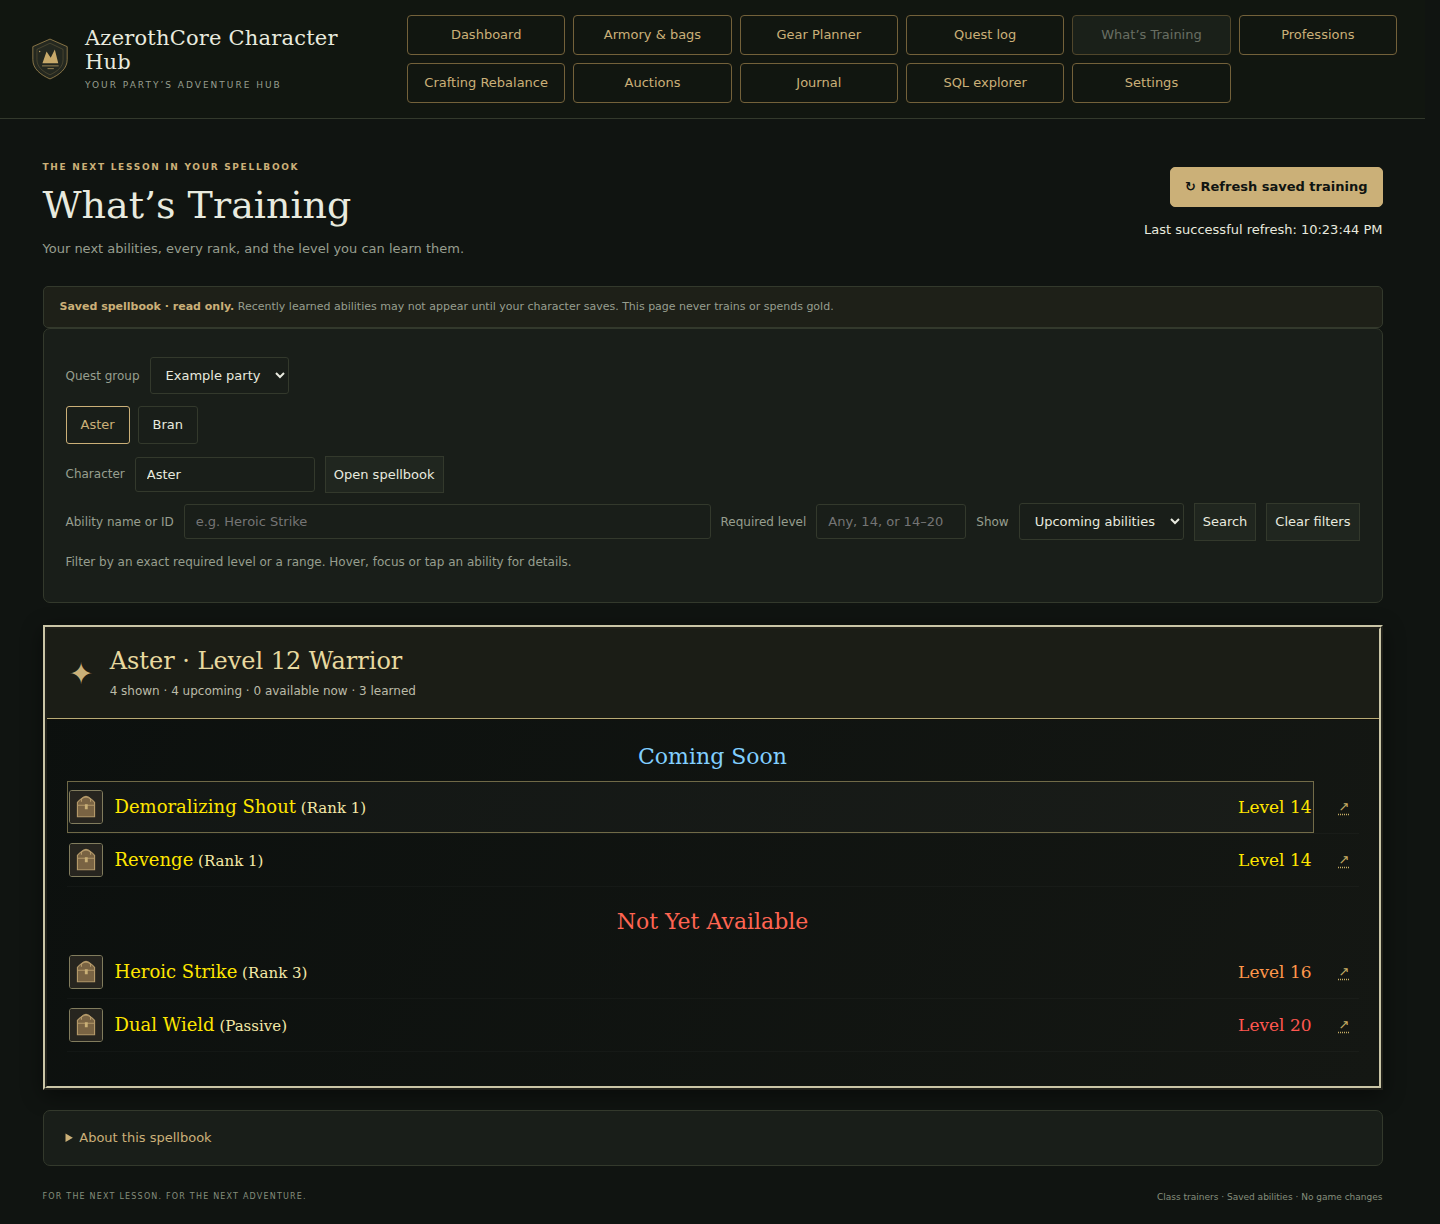
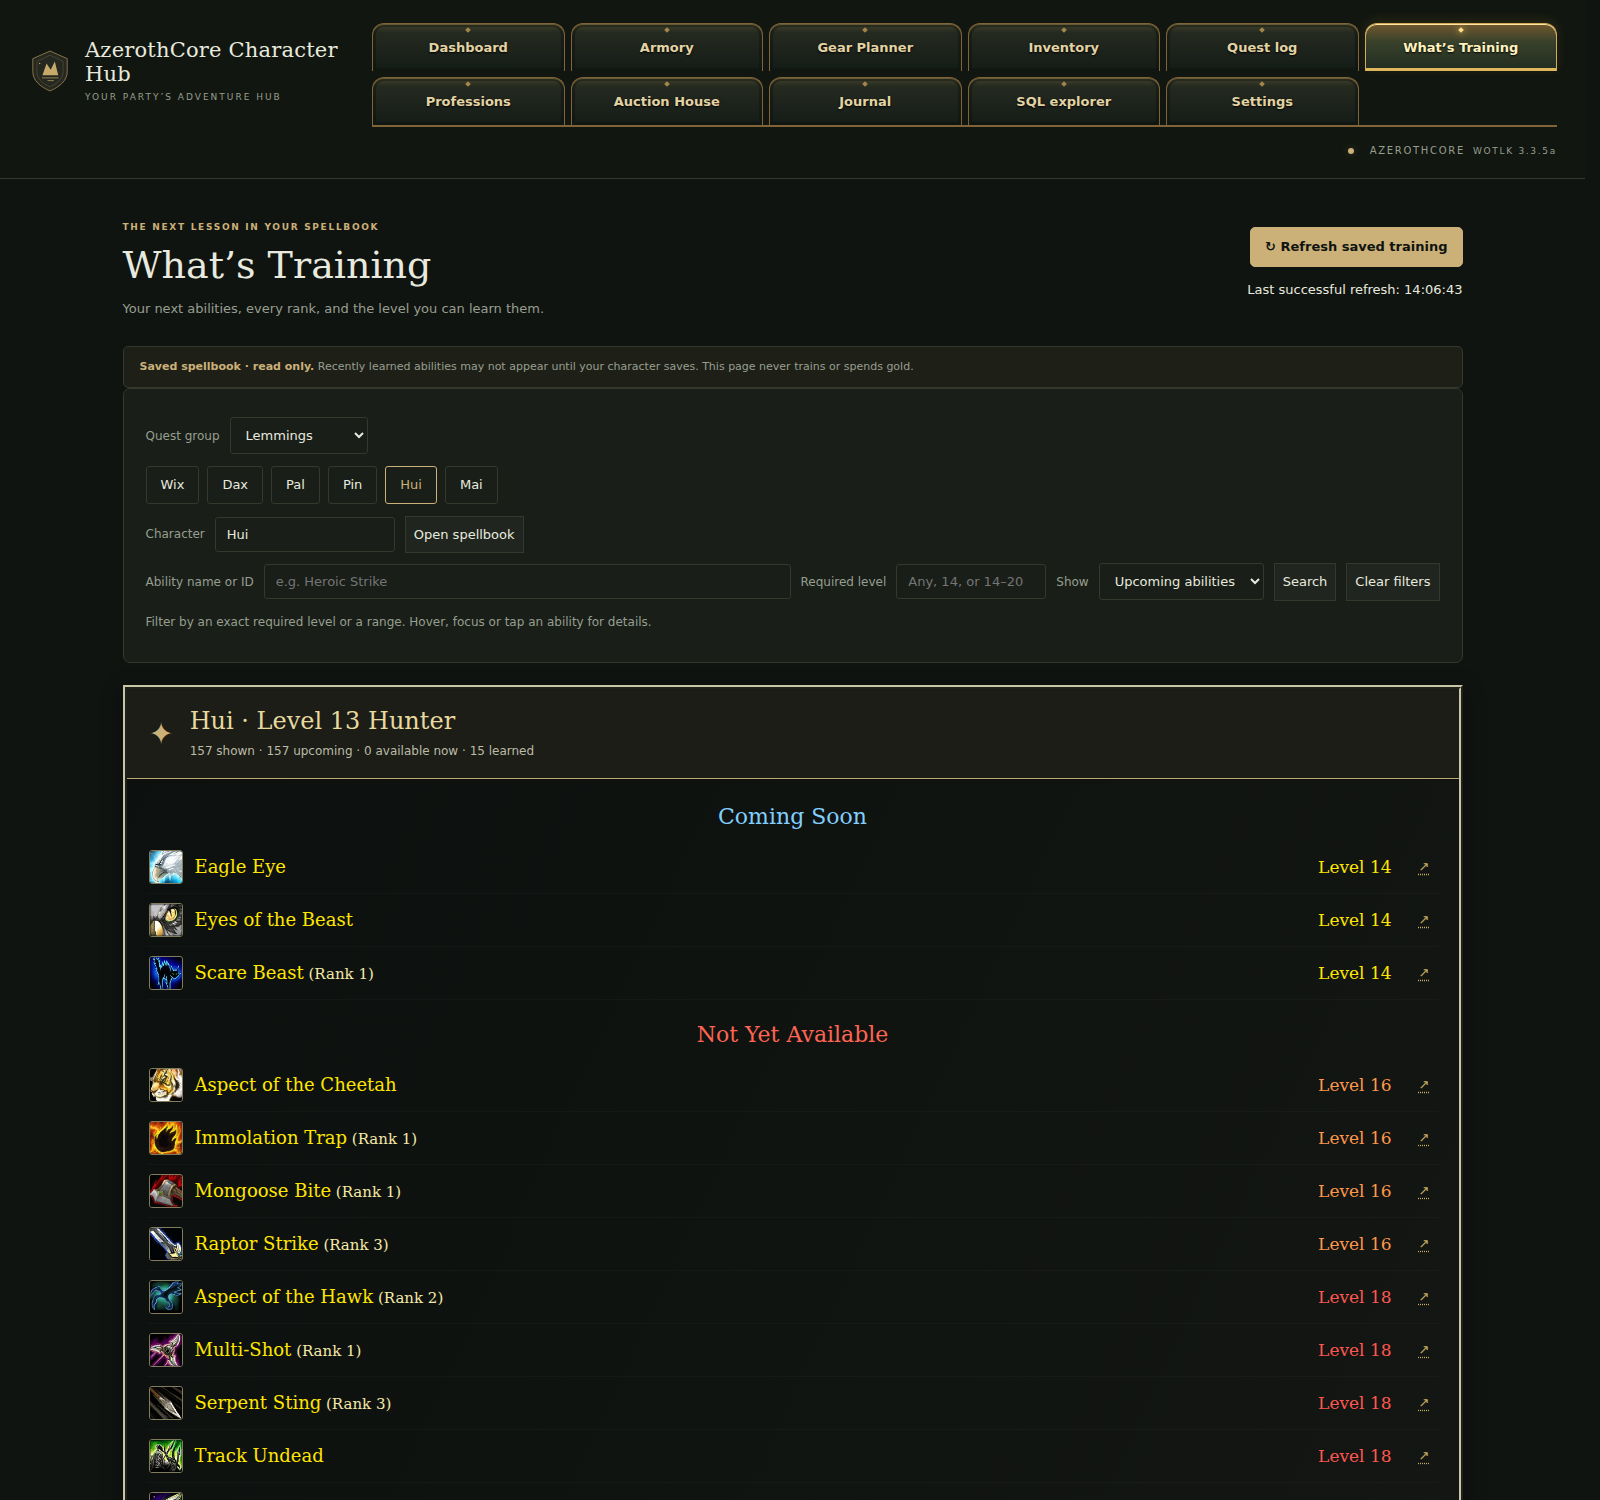
Refresh feature screenshots with approved Lemmings preview data

diff --git a/package_release.py b/package_release.py
@@ -16,6 +16,8 @@ NAME='character-hub'
 VERSION='0.1.4'
 ARCHIVE_NAME='azerothcore-character-hub-v'+VERSION
 SOURCE_FILES=(
+    'docs/screenshots/watch.png','docs/screenshots/inventory.png','docs/screenshots/quest-log.png',
+    'docs/screenshots/professions.png','docs/screenshots/auctions.png','docs/screenshots/sql.png',
     'docs/screenshots/training.png','training.py','tests/training_browser_check.py','item_tooltips.py','spell_tooltips.py','prepare_tooltip_assets.py','QUICKSTART.md','connection.py','VERSION','CHANGELOG.md','AUDIT.md','DEPLOYMENT.md','RELEASE_VALIDATION.md','docs/screenshots/overview.png','docs/screenshots/journal.png','docs/screenshots/armory.png','docs/screenshots/planner.png','LICENSE-PROPOSAL.md','examples/connection.env','tests/test_portable_config.py',
     'tests/professions_tooltip_browser_check.py','tests/inventory_browser_check.py',
     'gear_planner.py','gear_sources.py','gear_eligibility.py','prepare_gear_assets.py',

diff --git a/FEATURES.md b/FEATURES.md
@@ -99,10 +99,70 @@ SQL explorer accepts validated SELECTs only in permitted schemas. The Hub has no
 
 ## Screenshots
 
-These show empty setup states or synthetic examples, not private character/journal data. They illustrate the main pages; newer themes and controls may differ.
+Captured from the isolated preview on 31 October 2026 using the owner's Lemmings data with permission. These show a populated Hub; new installations still start empty. Every page except Settings is shown, plus the separate Playerbot Watch view.
 
-![Overview](docs/screenshots/overview.png)
-![Journal](docs/screenshots/journal.png)
-![Armory](docs/screenshots/armory.png)
-![Gear Planner](docs/screenshots/planner.png)
-![What's Training](docs/screenshots/training.png)
+### Dashboard
+
+The Lemmings roster, rested-XP indicators, group totals and quest comparison.
+
+![Dashboard with the six Lemmings characters and their saved quest progress](docs/screenshots/overview.png)
+
+### Playerbot Watch
+
+The Dashboard's independent watch roster and local character-note controls.
+
+![Playerbot Watch roster and saved character progress](docs/screenshots/watch.png)
+
+### Armory
+
+Hui's saved equipment, 3D equipped preview and selected Ashwood Bow details. The optional 3D preview uses a locally supplied compatible game client.
+
+![Hui's Armory with equipped items, character preview and bow inspection](docs/screenshots/armory.png)
+
+### Gear Planner
+
+Suggested activities and equipment rewards that benefit several group members.
+
+![Gear Planner showing quest-reward opportunities for the Lemmings](docs/screenshots/planner.png)
+
+### Inventory
+
+Hui's carried bags, saved item stacks and item inspection panel.
+
+![Inventory showing Hui's backpack, equipped bags and a selected item](docs/screenshots/inventory.png)
+
+### Quest log
+
+Hui's active quest list and the selected quest's objectives and rewards.
+
+![Quest log with In Defense of the King's Lands selected for Hui](docs/screenshots/quest-log.png)
+
+### What's Training
+
+Hui's upcoming hunter abilities, grouped by required level.
+
+![What's Training showing Hui's upcoming hunter abilities and ranks](docs/screenshots/training.png)
+
+### Professions
+
+Pin's saved Tailoring rank, learned recipes and selected recipe details.
+
+![Professions showing Pin's Tailoring recipes and Brown Linen Shirt requirements](docs/screenshots/professions.png)
+
+### Auction House
+
+Current realm listings with item icons, prices, levels and available quantities.
+
+![Auction House with current realm item listings and category filters](docs/screenshots/auctions.png)
+
+### Journal
+
+The populated register and one of the Lemmings' recorded adventures.
+
+![Adventurers' Journal displaying The Light Shall Not Abandon Us](docs/screenshots/journal.png)
+
+### SQL explorer
+
+A read-only SELECT showing the Lemmings' saved names, levels, classes and online states.
+
+![SQL explorer showing a SELECT query and six Lemmings character results](docs/screenshots/sql.png)
